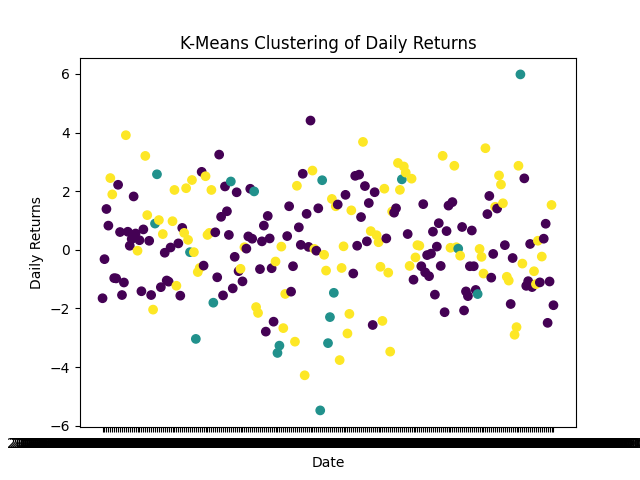
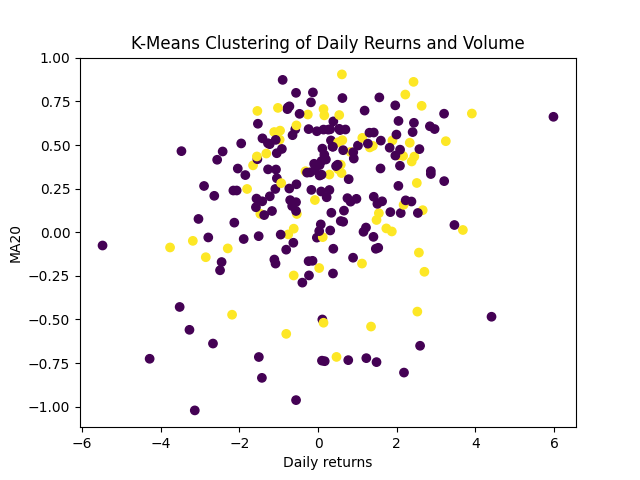
Progress

diff --git a/Project_part2/templates/engine.html b/Project_part2/templates/engine.html
@@ -12,7 +12,7 @@
           Data Collection
         </button>
       </h2>
-      <div id="collapseOne" class="accordion-collapse collapse" data-bs-parent="#accordionExample">
+      <div id="collapseOne" class="{{menu1}}" data-bs-parent="#accordionExample">
         <div class="accordion-body">
           <div class="container text-center">
             <div class="row">
@@ -57,9 +57,10 @@
           Breakout Status 
         </button>
       </h2>
-      <div id="collapseTwo" class="accordion-collapse collapse" data-bs-parent="#accordionExample">
+      <div id="collapseTwo" class="{{menu2}}" data-bs-parent="#accordionExample">
         <div class="accordion-body">
           <div class="container-sm">
+              Trained model yielded an accuracy of: {{accuracy}} %
               <table id="data" class="table">
                     <thead>
                         <tr>
@@ -89,13 +90,14 @@
           Sentiment analyser
         </button>
       </h2>
-      <div id="collapseThree" class="accordion-collapse collapse" data-bs-parent="#accordionExample">
+      <div id="collapseThree" class="{{menu3}}" data-bs-parent="#accordionExample">
         <div class="accordion-body">
           <div class="container text-center">
             <div class="row">
-              <div class="col-12">
+              <div class="col-3">
                 - Please be aware that the sentiment analysis can take a while
               </div>
+              <div class="col-9"></div>
             </div>
             <div class="row">
               <div class="col-12">
@@ -104,6 +106,7 @@
                 {% endfor %}
               </div>
             </div>
+            <p></p>
             <div class="row">
               <div class="col-2">
                 <a class="btn btn-dark" type="button" href="{{url_for('prediction',ticker=ticker)}}">Run Price prediction</a> 
@@ -122,7 +125,7 @@
             Price prediction
           </button>
         </h2>
-        <div id="collapseFour" class="accordion-collapse collapse" data-bs-parent="#accordionExample">
+        <div id="collapseFour" class="{{menu4}}" data-bs-parent="#accordionExample">
           <div class="accordion-body">
             
           </div>

diff --git a/Project_part2/app.py b/Project_part2/app.py
@@ -1,7 +1,7 @@
 from flask import Flask, render_template, request
 import pandas as pd
 from services.data_collector_service import scrape_stock_prices, get_company_info
-from ml.breakout import run_breakout, get_breakout_data
+from ml.breakout import run_breakout, get_breakout_data, get_accuracy
 from ml.sentiment_analyser import run_sentiment_analysis, get_sentiment
 from ml.price_prediction import run_price_prediction
 from services.plot_service import plot_graph
@@ -12,6 +12,13 @@ from services.plot_service import plot_graph
 # Having the flow more visualised in an ui adds to the understanding. 
 
 app = Flask(__name__)
+
+""" display = [{'menu1':'accordion-collapse collapse show', 'hide':'accordion-collapse collapse'}},
+           {'menu2':{'show':'accordion-collapse collapse show', 'hide':'accordion-collapse collapse'}},
+           {'menu3':{'show':'accordion-collapse collapse show', 'hide':'accordion-collapse collapse'}},
+           {'menu4':{'show':'accordion-collapse collapse show', 'hide':'accordion-collapse collapse'}}
+           
+           ] """
 
 if __name__ == '__main__':
     app.run(debug=True) 
@@ -29,11 +36,12 @@ def index():
 def analyze():
     if request.method == 'POST':
         ticker = request.form['tickers']
-            
-        #Maybe generate a dictionary with different statuses
         scrape_result = scrape_stock_prices(ticker)
-        plot_graph(scrape_result['Data'], ticker)
-        return render_template('engine.html', graph=f'images/{ticker}.png', ticker=ticker, company_info=scrape_result['Info'])
+        if scrape_result['Status'] == True:
+            plot_graph(scrape_result['Data'], ticker)
+            return render_template('engine.html', graph=f'images/{ticker}.png', ticker=ticker, company_info=scrape_result['Info'], 
+               menu1='accordion-collapse collapse show', menu2='accordion-collapse collapse', menu3='accordion-collapse collapse', menu4='accordion-collapse collapse')
+        
     else:
         return render_template('engine.html')
 
@@ -45,7 +53,8 @@ def breakout(ticker):
     df_breakout = df_breakout[['Date','Open','Close','Volume','Breakout']].copy()
     info = get_company_info(ticker)
     return render_template('engine.html', graph=f'images/{ticker}.png', ticker=ticker, company_info=info, accuracy=breakout_data['Accuracy'], 
-                           column_names=df_breakout.columns.values, row_data=list(df_breakout.values.tolist()), zip=zip)
+                           column_names=df_breakout.columns.values, row_data=list(df_breakout.values.tolist()), zip=zip,
+                           menu1='accordion-collapse collapse show', menu2='accordion-collapse collapse show', menu3='accordion-collapse collapse', menu4='accordion-collapse collapse')
 
 @app.route("/sentiment/<ticker>")
 def sentiment(ticker):
@@ -54,8 +63,10 @@ def sentiment(ticker):
     df_breakout = df_breakout[df_breakout['Breakout'] == True]
     df_breakout = df_breakout[['Date','Open','Close','Volume','Breakout']].copy()
     sentiment = run_sentiment_analysis(ticker, df_breakout)
-    return render_template('engine.html', graph=f'images/{ticker}.png', ticker=ticker, company_info=info,
-                           column_names=df_breakout.columns.values, row_data=list(df_breakout.values.tolist()), zip=zip, tables = [sentiment.to_html(classes='data', header="true")])
+    return render_template('engine.html', graph=f'images/{ticker}.png', ticker=ticker, company_info=info, accuracy=get_accuracy(ticker),
+                           column_names=df_breakout.columns.values, row_data=list(df_breakout.values.tolist()), zip=zip, tables = [sentiment.to_html(classes='data', header="true", index = False)],
+                           menu1='accordion-collapse collapse', menu2='accordion-collapse collapse show', menu3='accordion-collapse collapse show', menu4='accordion-collapse collapse')
+                           
 
 @app.route("/prediction/<ticker>")
 def prediction(ticker):
@@ -64,8 +75,9 @@ def prediction(ticker):
     price = run_price_prediction(ticker, df_breakout)
     df_breakout = df_breakout[df_breakout['Breakout'] == True]
     df_breakout = df_breakout[['Date','Open','Close','Volume','Breakout']].copy()
-    return render_template('engine.html', graph=f'images/{ticker}.png', ticker=ticker, company_info=info,
-                           column_names=df_breakout.columns.values, row_data=list(df_breakout.values.tolist()), zip=zip, tables = [sentiment.to_html(classes='data', header="true")])
+    return render_template('engine.html', graph=f'images/{ticker}.png', ticker=ticker, company_info=info,accuracy=get_accuracy(ticker),
+                           column_names=df_breakout.columns.values, row_data=list(df_breakout.values.tolist()), zip=zip, tables = [sentiment.to_html(classes='data', header="true", index = False)],
+                           menu1='accordion-collapse collapse', menu2='accordion-collapse collapse', menu3='accordion-collapse collapse show', menu4='accordion-collapse collapse show')
 
 
 @app.route("/engine")

diff --git a/Project_part2/ml/price_prediction.py b/Project_part2/ml/price_prediction.py
@@ -4,25 +4,37 @@ import matplotlib.pyplot as plt
 import joblib
 
 def run_price_prediction(ticker, df_breakout):
-    existing_model = joblib.load(f'./models/{ticker}_breakout.joblib')
+    #existing_model = joblib.load(f'./models/{ticker}_breakout.joblib')
     
     # Needs to be the same parameters that are used during breakout training otherwise it will fail.
-    breakout_features = df_breakout[['Open_Close','MA20','OC-%-MA20','MaxOC_Prev10','MA20_Volume','Volume-%-MA20_Volume']]
+    #breakout_features = df_breakout[['Open_Close','MA20','OC-%-MA20','MaxOC_Prev10','MA20_Volume','Volume-%-MA20_Volume']]
     
-    predictions = existing_model.predict(breakout_features)
+    #predictions = existing_model.predict(breakout_features)
 
-    clustering_features = df_breakout[['Open_Close','Volume']]
+    clustering_features = df_breakout[['Open_Close','MA20','OC-%-MA20','MaxOC_Prev10','MA20_Volume','Volume-%-MA20_Volume','Breakout']]
 
     # Use K-Means to cluster historical price movements
-    num_clusters = 3  # You can adjust this based on your dataset and preferences
+    num_clusters = 2
     kmeans = KMeans(n_clusters=num_clusters, random_state=42)
     
     kmeans_clusters = kmeans.fit_predict(clustering_features)
+
+    # Visualize the K-Means clusters
+    plt.scatter(df_breakout['Open_Close'], df_breakout['MA20'], c=kmeans_clusters, cmap='viridis')
+    plt.xlabel('Daily returns')
+    plt.ylabel('MA20')
+    plt.title('K-Means Clustering of Daily Reurns and Volume')
+    plt.savefig(f'./static/images/{ticker}_price.png')
+    #plt.show()
+    plt.close()
 
     breakout_cluster =kmeans.predict(clustering_features)
 
     similar_periods = df_breakout[kmeans_clusters == breakout_cluster[0]]
 
+    average_future_price_movement = similar_periods['Open_Close'].mean()
+
+    print(average_future_price_movement)
 
     """ plt.scatter(df_breakout['Date'], df_breakout['Open_Close'], c=breakout_cluster, cmap='viridis')
     plt.xlabel('Date')

diff --git a/Project_part2/ml/breakout.py b/Project_part2/ml/breakout.py
@@ -63,13 +63,20 @@ def run_breakout(ticker):
     
     # The model seems to be overfitting, the accuracy is to high
     if accuracy > 0.75:
-        # Saving the model, so that going foward it can be feed 
+        # Saving the model, so that going foward it might be utilized in price prediction (This is not the case right now) 
         joblib.dump(trained_model, f'./models/{ticker}_breakout.joblib')
+        f = open(f'./models/{ticker}_breakout_accuracy.txt', "w")
+        f.write(str(accuracy * 100))
+        f.close()
 
     return {'Accuracy':accuracy * 100,'Data':df_breakout }
 
 def get_breakout_data(ticker):
     df_breakout = pd.read_csv(f'./data/breakout/{ticker}.csv')
     return df_breakout 
+
+def get_accuracy(ticker):
+    f = open(f'./models/{ticker}_breakout_accuracy.txt', "r")
+    return f.read()
 
 #run_breakout('TSLA')
